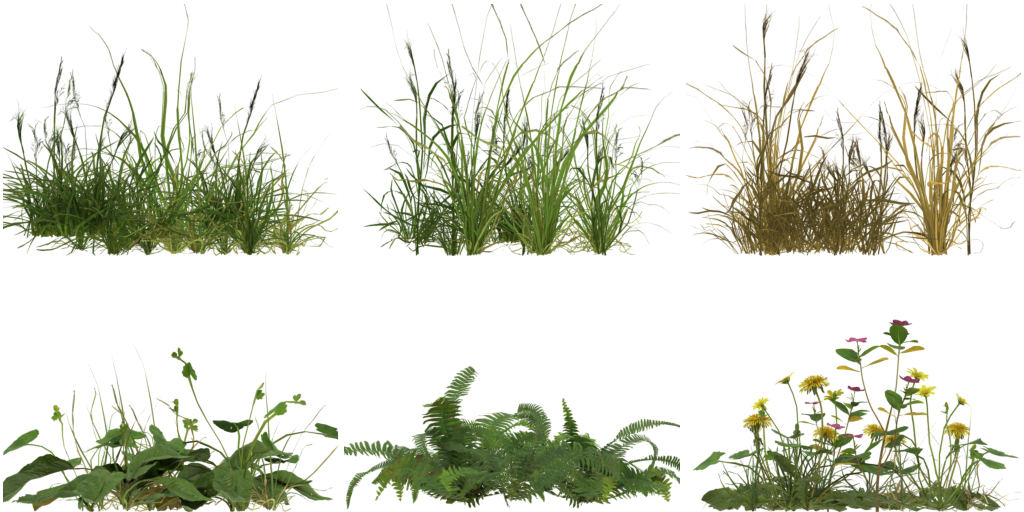
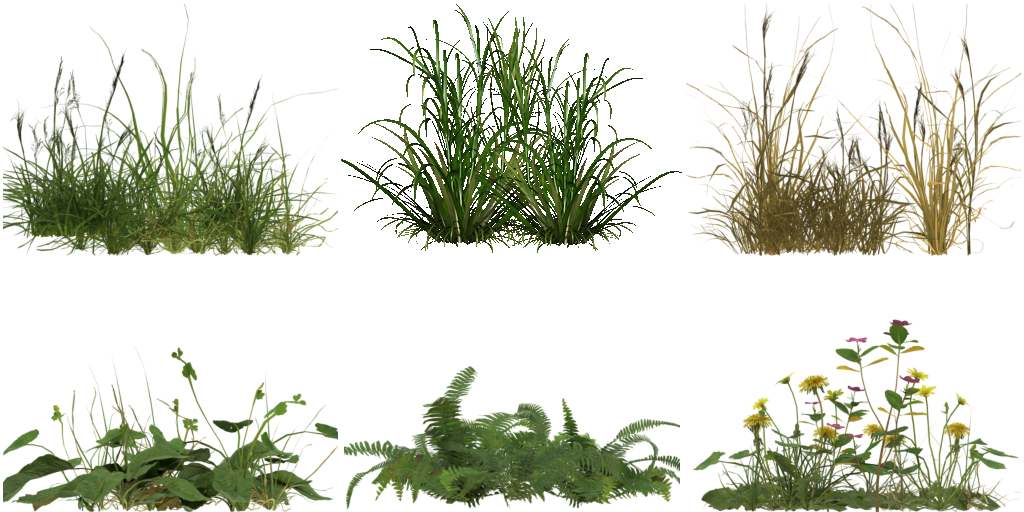
atlas travy: bunka 1 z trsu grass_filed (Disk); trsy az za okrajem cesty, rybnicek bez holeho ctverce; predani: z_katalog
Claude-Session: https://claude.ai/code/session_01WeT6YyZ78tWTNnktyKgoyQ

Changed region(s): [[0.3438, 0.0312, 0.6562, 0.5]]

diff --git a/tools/atlas_trs_disk.py b/tools/atlas_trs_disk.py
@@ -1,0 +1,50 @@
+"""Bunka 1 atlasu travy (vysoka trava, byla nejridsi) z trsu grass_filed.glb z Misova Disku (radce 07:45):
+textura trsu 512 RGBA (alpha MASK), model 1 708 troj. se nepouziva - nas trs zustava 3 karty. Dva trsy vedle sebe
+(druhy zrcadleny, mensi), spodek na spodku bunky; barva se rozleje do pruhlednych pixelu (mipmapy bez lemu).
+Spusteni: python3 tools/atlas_trs_disk.py  (vstup blender/tex_cache/grass_filed_trs.png, vystup obrazky/trava_atlas.png)."""
+import os
+import numpy as np
+from PIL import Image, ImageFilter
+
+KOREN = os.path.dirname(os.path.dirname(os.path.abspath(__file__)))
+# vstup = puvodni atlas z blender/atlas_travy.py (skript se nesmi spoustet na uz upraveny atlas dvakrat)
+PUV = os.path.join(KOREN, "blender", "tex_cache", "trava_atlas_blender.png")
+if not os.path.exists(PUV):
+    Image.open(os.path.join(KOREN, "obrazky", "trava_atlas.png")).save(PUV)
+atlas = Image.open(PUV).convert("RGBA")
+trs = Image.open(os.path.join(KOREN, "blender", "tex_cache", "grass_filed_trs.png")).convert("RGBA")
+a = np.asarray(trs)
+m = a[..., 3] > 127
+ys, xs = np.where(m)
+trs = trs.crop((xs.min(), ys.min(), xs.max() + 1, ys.max() + 1))
+BW, BH = 341, 256
+x0, y0 = 341, 0                       # bunka 1 (sloupec 1, radek 0)
+bunka = Image.new("RGBA", (BW, BH), (0, 0, 0, 0))
+for sx, h, mir in ((0.30, 250, False), (0.70, 215, True)):
+    t = trs.resize((int(trs.width * h / trs.height), h), Image.LANCZOS)
+    if mir:
+        t = t.transpose(Image.FLIP_LEFT_RIGHT)
+    bunka.alpha_composite(t, (int(BW * sx - t.width / 2), BH - h - 2))
+# alfa ostra (MASK), barva rozlita do pruhlednych pixelu
+b = np.asarray(bunka).astype(np.float32)
+al = (b[..., 3] > 127).astype(np.float32)
+rgb = b[..., :3] * al[..., None]
+w = al.copy()
+for _ in range(12):
+    im_rgb = Image.fromarray(np.clip(rgb, 0, 255).astype(np.uint8))
+    im_w = Image.fromarray((w * 255).astype(np.uint8))
+    rgb_b = np.asarray(im_rgb.filter(ImageFilter.BoxBlur(2))).astype(np.float32)
+    w_b = np.asarray(im_w.filter(ImageFilter.BoxBlur(2))).astype(np.float32) / 255.0
+    nov = (w < 0.5) & (w_b > 0.01)
+    rgb[nov] = rgb_b[nov] / w_b[nov][:, None]
+    w[nov] = 1.0
+# barvu srovnat s bunkou 0 (nizka trava z Poly Haven) - jinak by trsy v louce svitily jinou zeleni
+ref = np.asarray(atlas).astype(np.float32)[0:BH, 0:BW]
+rm = ref[..., 3] > 127
+k = ref[..., :3][rm].mean(0) / np.maximum(rgb[al > 0.5].mean(0), 1.0)
+rgb = rgb * (0.5 + 0.5 * k)            # pul cesty: trs si necha vlastni kresbu
+out = np.dstack([np.clip(rgb, 0, 255), al * 255]).astype(np.uint8)
+cela = np.asarray(atlas).copy()
+cela[y0:y0 + BH, x0:x0 + BW] = out
+Image.fromarray(cela).save(os.path.join(KOREN, "obrazky", "trava_atlas.png"))
+print("bunka 1 atlasu z grass_filed: pokryti %.0f %%, barva x %s" % (al.mean() * 100, np.round(0.5 + 0.5 * k, 2)))

diff --git a/docs/predani.md b/docs/predani.md
@@ -58,3 +58,8 @@ Bez něj nejde vydat aktualizaci přes nainstalovanou hru (nutná odinstalace = 
 - Pravidla z pádů 0.58–0.59 (radce.md): na tabletu **MSAA nikdy**, žádná kopie obrazovky v shaderech, změna kreslení = 3 min RAM na tabletu; při pádu nejdřív porovnat poslední dobrou a první špatnou verzi.
 - Otevřené (radce.md hlášení 0.61): stromy plácačky (nové modely), příkop nedodělaný, dálka-obzor, terasy, cesty jako součin vlivů.
 - Rozpočet a otevřené body: `docs/stav.md` (historie `docs/stav_historie.md`).
+
+## Past: katalog předmětů v balíku svet (0.73)
+`modely/predmety.json` (katalog) je v balíku `svet`, který se v kontejneru nepřestavuje (jen importy bez zdrojů). Nový předmět
+(`blender/predmety.py build …`) má vlastní balík `p_<id>`, ale bez nového katalogu ho tablet nezná a nepoloží (0.71/0.72:
+stany v lomu chyběly). Proto při každém novém předmětu vydávat s `--jen …,z_katalog,p_<id>` (opravný balík jen s katalogem).
